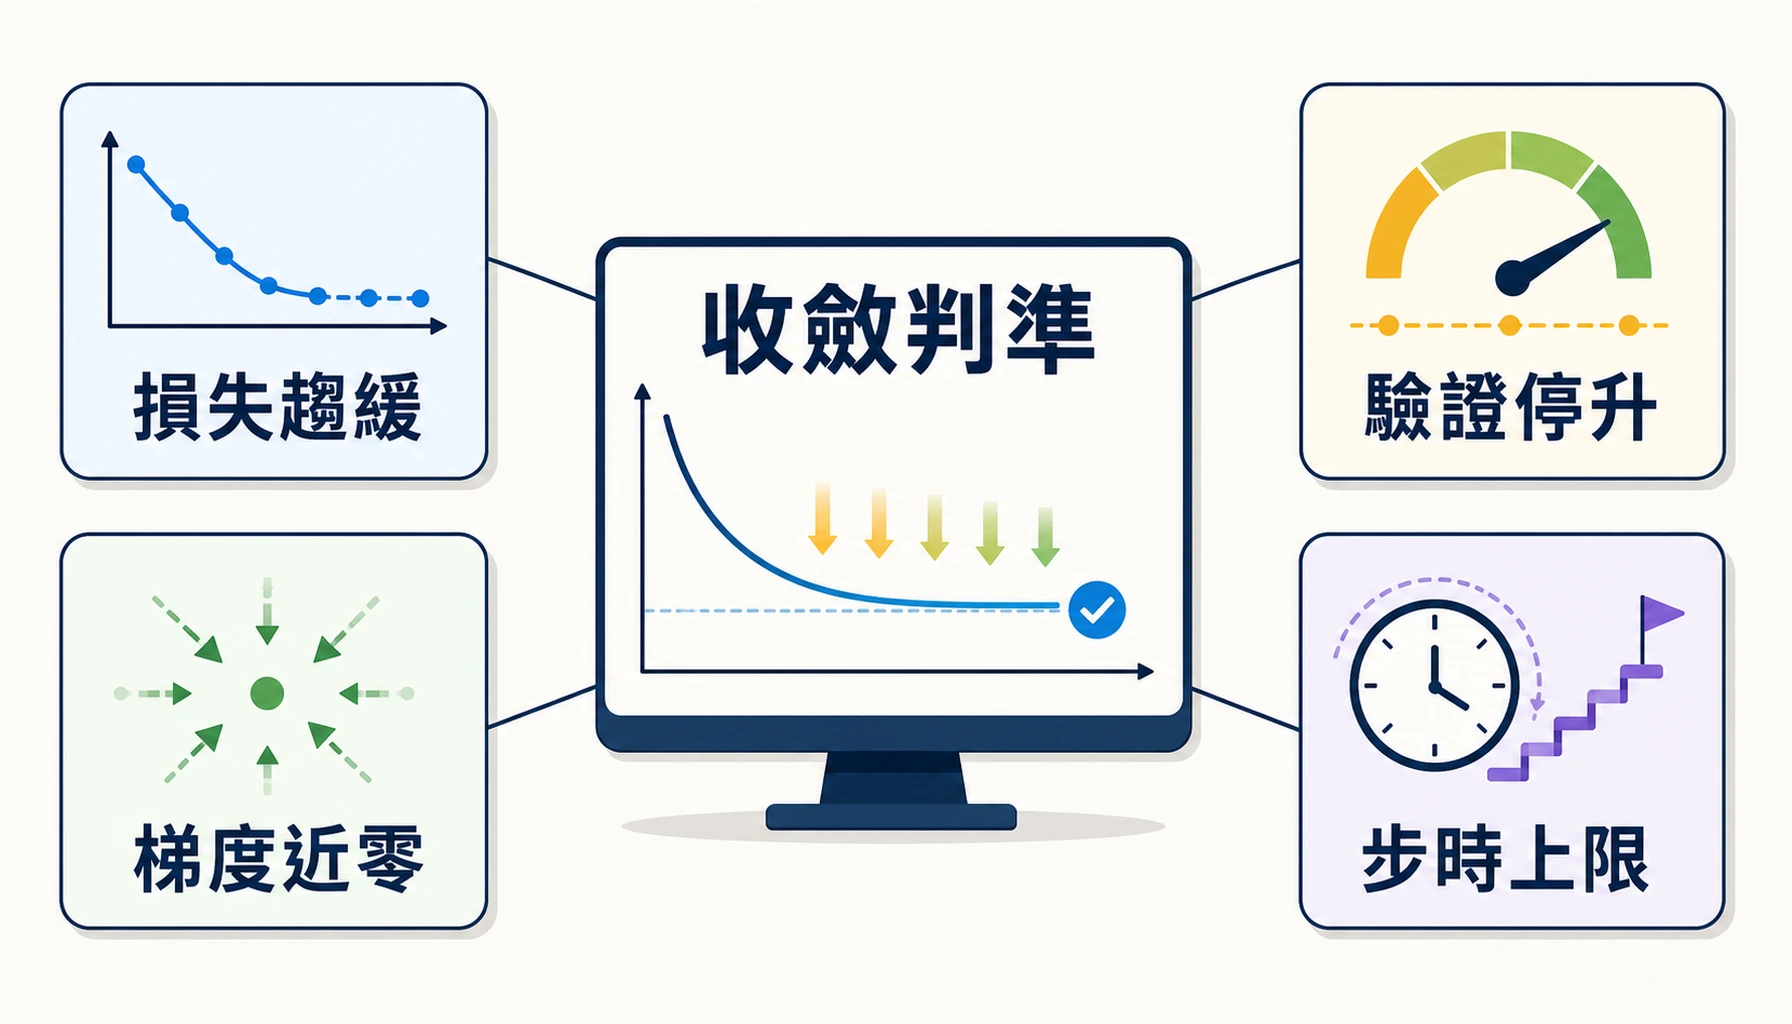
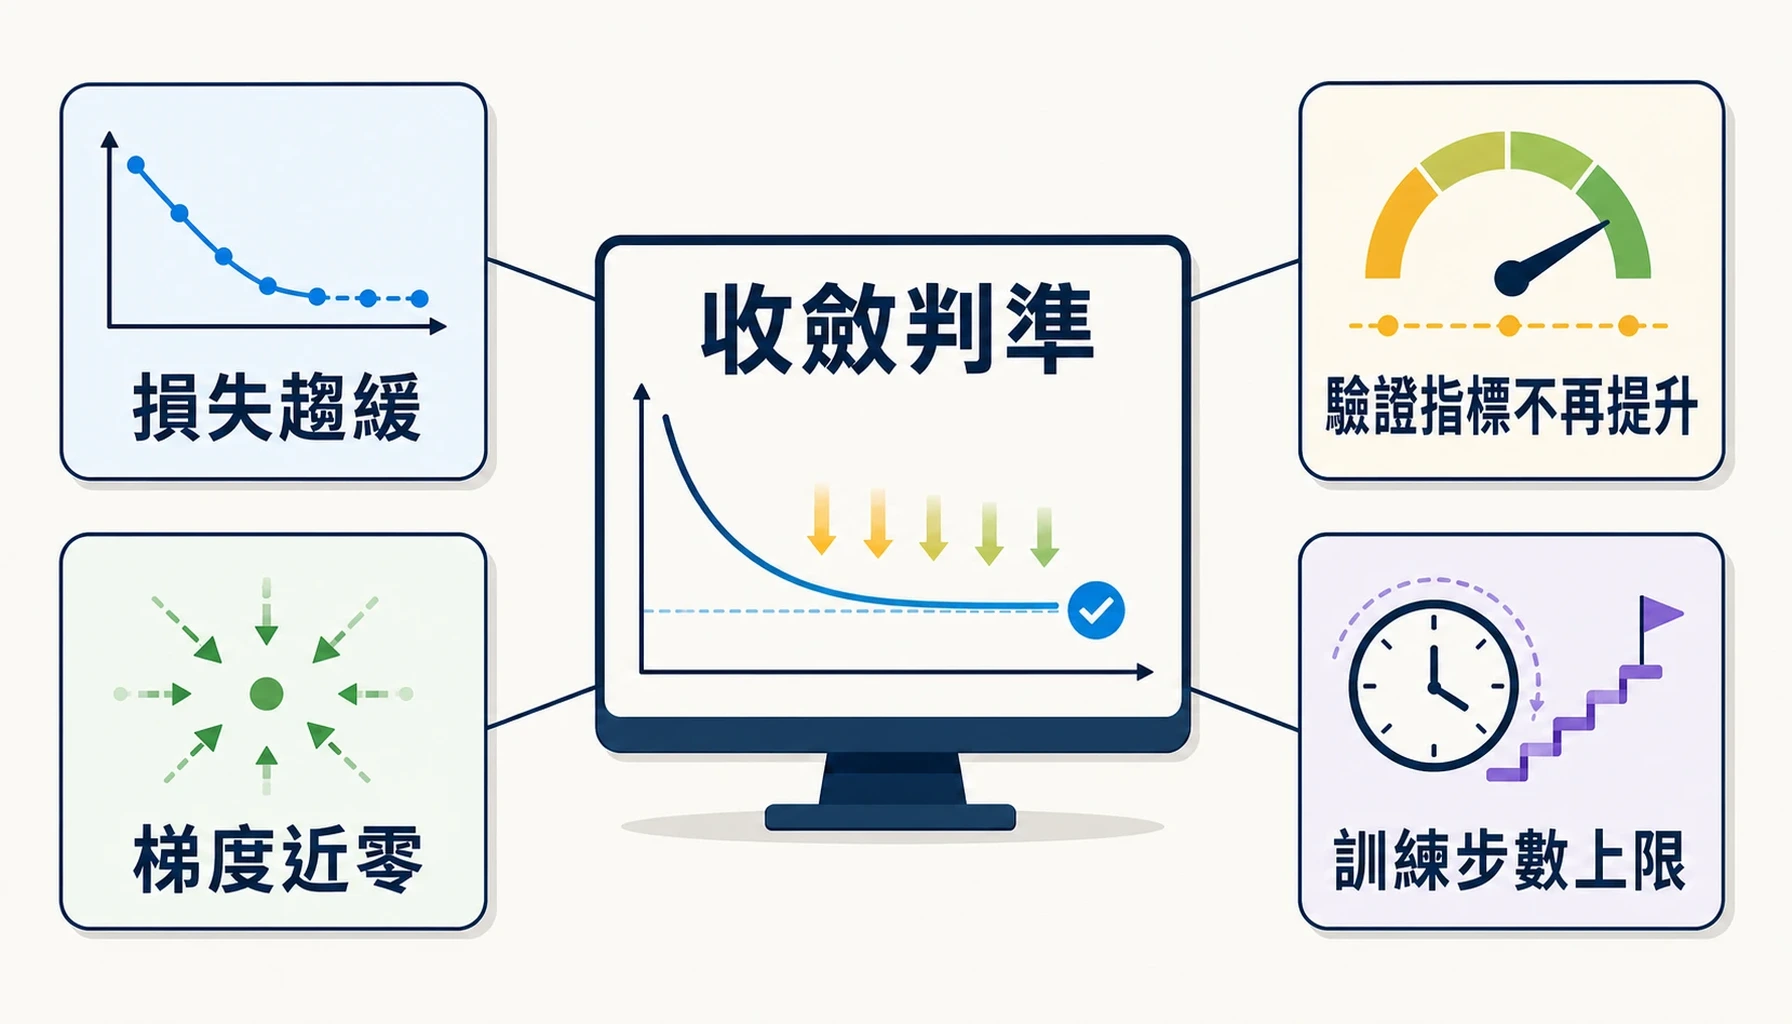
images: 修好最後一張圖卡——先前判成「模型極限」是錯的，真因是回饋迴圈在丟資訊
guide3-mid-s3c3-img-016 先前試 7 次全滅，我判成「影像模型的中文渲染極限」。
使用者質疑「可能是系統資源不足」，為公平查證做了兩件事，結果照出真因：

1. 技術失敗與內容失敗分開計數（--infra-retries，不佔 --attempts）。實測一輪 5 次裡
   3 次是服務 502「no image produced」或檢查器沒回應——混在一起算，基礎設施不穩
   會偽裝成「模型修不好」。
2. 保留沒過的候選圖（build/image_candidates/）。原本失敗就被下一輪覆蓋、最後還原
   原圖，「閘門是否過嚴」根本無法查證。

候選圖擺在一起就看出兩個壞標籤在輪替：a3 修好「驗證指標停止提升」但「步時上限」還在，
a4 修好「步數上限」但驗證那格回退。模型兩個都會修——是我的迴圈在丟資訊：

- 檢查器每輪只回報一個問題，所以回饋只點名一個缺陷
- problems 是取代而非累積，上一輪修好的那個下一輪沒被提到
- /edit 每輪都拿原始備份當參考，把上一輪的部分進展整個丟掉（最致命的一層）

三點都修：問題跨輪累積、參考圖沿用「目前問題最少的候選」、檢查器 prompt 明確要求
列出每一個問題並說明漏報會造成擺盪。同一張圖 /edit 第 2 次就通過。

結果：4 張必修全數修好（4/4），「驗證指標不再提升」「訓練步數上限」，版面完整保留。
727 張尺寸全為 1792×1024；已驗 7 張全 pass；audit exit 0；build 零 TS 錯誤。

playbook §7-6 與 05-letter 的「模型極限」結論已修正，改成可操作的自檢：
斷言「這是模型能力極限」前先問——回饋有累積嗎？迭代是從最好的狀態繼續還是每次從頭？
判定器有被要求列出全部問題嗎？「重試 N 次都失敗」只證明這條路徑失敗。

diff --git a/scripts/regenerate_flagged_images.py b/scripts/regenerate_flagged_images.py
@@ -42,6 +42,7 @@ from verify_generated_images import (
 BASE = Path(__file__).resolve().parents[1]
 UNITS_PATH = BASE / 'data' / '共用' / 'image_units_all_levels.json'
 BACKUP_DIR = BASE / 'build' / 'image_backup'
+CANDIDATE_DIR = BASE / 'build' / 'image_candidates'
 LOG_PATH = BASE / 'build' / 'image_regeneration_log.jsonl'
 # 與其餘 726 張一致（generate_images.OUTPUT_SIZE）
 OUTPUT_SIZE = (1792, 1024)
@@ -75,6 +76,18 @@ def write_normalized(data: bytes, out_path: Path, quality: int = 92) -> None:
         fitted.save(out_path, 'WEBP', quality=quality)
 
 
+def keep_candidate(out_path: Path, image_id: str, attempt: int, tag: str) -> Path:
+    """保留沒過的候選圖，讓人可以回看「這張到底可不可以接受」。
+
+    2026-08-09 加：原本沒過就直接被下一輪覆蓋、最後還原原圖，
+    於是「閘門是否過嚴」這個問題根本無法查證——判定看不到證據就只能相信它。
+    """
+    CANDIDATE_DIR.mkdir(parents=True, exist_ok=True)
+    kept = CANDIDATE_DIR / f'{image_id}-a{attempt}-{tag.replace(",", "_")}.webp'
+    shutil.copy2(out_path, kept)
+    return kept
+
+
 def edit_prompt(problems: list[dict]) -> str:
     """圖生圖用的修字指令：只動指出來的字，其餘一律不要改。"""
     lines = ['這是一張中文資訊圖。**只修正文字，其他一切保持原樣**——',
@@ -100,6 +113,8 @@ def main() -> None:
     parser.add_argument('--attempts', type=int, default=3)
     parser.add_argument('--limit', type=int)
     parser.add_argument('--timeout', type=int, default=620)
+    parser.add_argument('--infra-retries', type=int, default=4,
+                        help='服務 502／檢查器沒回應的額外重試上限（不佔內容嘗試次數）')
     parser.add_argument('--no-edit', action='store_true',
                         help='不用圖生圖，一律從頭產（版面會跟著變，不建議）')
     args = parser.parse_args()
@@ -139,13 +154,27 @@ def main() -> None:
             shutil.copy2(out_path, backup)
 
         problems = review['results'].get(image_id, {}).get('problems', [])
+        # 累積所有見過的問題：檢查器每輪只回報一個，取代式更新會讓上一輪修好的
+        # 那個標籤在下一輪沒被提到而回退——實測 img-016 就是這樣在兩個標籤間輪替。
+        seen_problems: dict[str, dict] = {p['text']: p for p in problems}
+        # /edit 的參考圖：用目前最好的候選（問題最少的），而不是每輪都回到原始備份，
+        # 否則上一輪的部分進展會被整個丟掉。
+        reference = backup
+        best_count = len(problems) or 99
         passed = False
-        for attempt in range(1, args.attempts + 1):
+        attempt = 0
+        infra_retries = 0
+        # 技術失敗（服務 502／檢查器沒回應）**不算一次內容嘗試**。
+        # 2026-08-09 實測：一輪 5 次裡 3 次是技術失敗，等於 502 白白吃掉修圖機會，
+        # 而且會讓「模型修不好」與「基礎設施不穩」混成同一個結論。
+        while attempt < args.attempts and infra_retries <= args.infra_retries:
+            attempt += 1
             # 先圖生圖（保住版面），失敗或使用者要求才退回文生圖
-            use_edit = (not args.no_edit) and backup.exists() and problems
+            use_edit = (not args.no_edit) and reference.exists() and seen_problems
             try:
                 if use_edit:
-                    data = edit(edit_prompt(problems), [backup], timeout=args.timeout)
+                    data = edit(edit_prompt(list(seen_problems.values())), [reference],
+                                timeout=args.timeout)
                     mode = 'edit'
                 else:
                     data = generate(unit['imagePrompt'] + problems_as_instructions(problems),
@@ -153,16 +182,25 @@ def main() -> None:
                     mode = 'generate'
                 write_normalized(data, out_path)
             except (ImggenError, Exception) as exc:  # noqa: B014
-                print(f'   [{index}/{len(targets)}] {image_id} 第 {attempt} 次產圖失敗：'
-                      f'{str(exc)[:80]}')
-                append_log({'id': image_id, 'attempt': attempt, 'stage': 'generate',
-                            'status': 'failed', 'error': str(exc)[:300]})
+                attempt -= 1          # 技術失敗不算一次內容嘗試
+                infra_retries += 1
+                print(f'   [{index}/{len(targets)}] {image_id} 產圖失敗（基礎設施，'
+                      f'第 {infra_retries} 次）：{str(exc)[:70]}')
+                append_log({'id': image_id, 'attempt': attempt + 1, 'stage': 'generate',
+                            'status': 'infra_failed', 'error': str(exc)[:300]})
                 continue
 
             result = check_one(out_path, record, timeout=args.timeout)
             append_log({'id': image_id, 'attempt': attempt, 'stage': 'verify',
                         'mode': mode, 'verdict': result['verdict'],
                         'problems': result['problems']})
+            if result['verdict'] == 'error':
+                attempt -= 1          # 檢查器沒回應同樣不算內容嘗試
+                infra_retries += 1
+                keep_candidate(out_path, image_id, attempt + 1, 'checker_error')
+                print(f'   [{index}/{len(targets)}] {image_id} 檢查器沒回應（基礎設施，'
+                      f'第 {infra_retries} 次）')
+                continue
             if result['verdict'] == 'pass':
                 review['results'][image_id] = result
                 print(f'OK   [{index}/{len(targets)}] {image_id}'
@@ -171,8 +209,16 @@ def main() -> None:
                 passed = True
                 break
             kinds = ','.join(sorted({p['kind'] for p in result['problems']})) or result['verdict']
-            print(f'   [{index}/{len(targets)}] {image_id} 第 {attempt} 次仍不過（{kinds}）')
-            problems = result['problems'] or problems
+            kept = keep_candidate(out_path, image_id, attempt, kinds)
+            for problem in result['problems']:
+                seen_problems[problem['text']] = problem
+            improved = ''
+            if len(result['problems']) < best_count:
+                best_count = len(result['problems'])
+                reference = kept          # 部分進展要保留下來當下一輪的起點
+                improved = '（已升級為下一輪的參考圖）'
+            print(f'   [{index}/{len(targets)}] {image_id} 第 {attempt} 次仍不過（{kinds}）'
+                  f'{improved} → {kept.relative_to(BASE)}')
 
         if not passed:
             # 沒有任何一輪通過 → 還原備份，不要用更差的圖換掉原圖

diff --git a/scripts/verify_generated_images.py b/scripts/verify_generated_images.py
@@ -60,6 +60,10 @@ PROMPT_HEAD = """\
 判定從嚴但不要無中生有：**字形只是略粗略細、或字重不同，不算 garbled**；
 只有「明顯不成字、會讓人認不出來」才算。英文與數字不在檢查範圍。
 
+⚠ **problems 必須列出你看到的每一個問題，不要只回報第一個或最嚴重的那個。**
+下游會拿這份清單去逐條修圖；漏掉的那一項不會被修，而且會讓修圖在兩個標籤之間
+來回擺盪（修好 A、漏講 B，下一輪修好 B、A 又壞掉）。逐格檢查完再輸出。
+
 problems 為空才給 verdict=pass。
 """
 

diff --git a/playbook/05-letter.md b/playbook/05-letter.md
@@ -83,11 +83,11 @@ git 救不回。兩個具體行動：
    相對考試權重嚴重不足，是內容問題不是 pipeline 問題。**使用者尚未定調作法**
    （篇幅、取材依據、對外文案界線），要做之前先問。
 2. ⑤ 依熱度配額重生初級題目（配額、切塊、避免抄官方題的 prompt 都已就緒）。
-3. ~~概念圖卡的中文字形~~ **✅ 已處理到極限**：4 張必修修好 3 張，
-   `guide3-mid-s3c3-img-016`（「驗證停升」「步時上限」）試 7 次全滅、原圖已還原。
-   產圖後已有文字閘門（`verify_generated_images.py`），未來每次產圖都會過。
-   剩下那張與「約三分之一字形變形」要根治得換 **HTML/SVG ＋ 真字型渲染**，
-   是獨立一輪的工作，使用者尚未點頭。
+3. ~~概念圖卡的中文字形~~ **✅ 4 張必修全數修好**（2026-08-09）。
+   我一度把最後一張判成「模型極限」，那是錯的——真因是回饋迴圈在丟資訊
+   （見 `08` §7-6 的修正條目，三個可操作的自檢問題寫在那）。
+   產圖後已有文字閘門，未來每次產圖都會過。**仍未處理**：抽樣中約三分之一圖卡
+   「字形變形但可讀」，那要換 HTML/SVG ＋ 真字型渲染才根治，使用者尚未點頭。
 
 **使用者已決定（2026-08-08）**：
 - `guideContent_before_ocr_merge/`（8.5 MB、gitignored）**保留不刪**。
